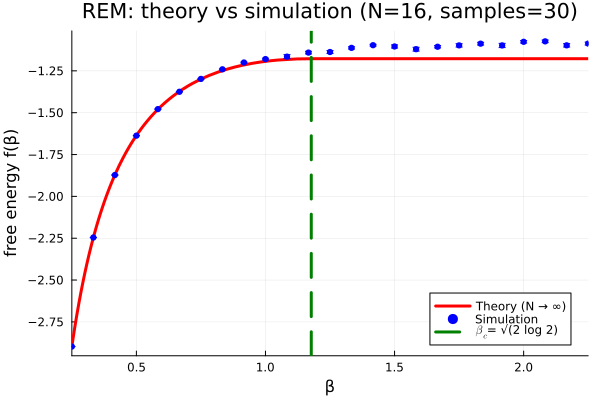
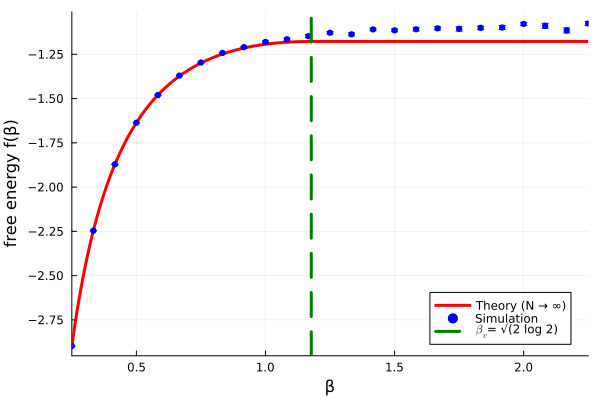
style header

diff --git a/_layout/header.html b/_layout/header.html
@@ -1,9 +1,9 @@
 <header>
-<div class="blog-name"><a>Enrico&nbsp;M.&nbsp;Malatesta</a></div>
+<div class="blog-name"><a href="/" style="text-decoration: none; color: inherit;">Enrico&nbsp;M.&nbsp;Malatesta</a></div>
 <!--<a href="https://cs.unibocconi.eu/"><img style="max-height:65px; margin-top: 0px;" src="/assets/images/header/B.png"></a>-->
 <nav>
   <ul>
-    <li><a href="/">Home</a></li>
+    <li><a href="/" >Home</a></li>
     <li><a href="/pages/publications/">Publications</a></li>
     <li><a href="/pages/notes/">Notes</a></li>
     <li><a href="/pages/teaching/">Teaching</a></li>

diff --git a/blog/2025/REM1.md b/blog/2025/REM1.md
@@ -147,7 +147,7 @@ If $\beta$ is too large (i.e. the temperature too low), the corresponding maximi
 
 
 @@center ![Microcanonical entropy of REM](/blog/2025/rem_entropy.png) @@
-
+@@center *Figure 1: Microcanonical entropy of the REM* @@
 
 
 
@@ -217,7 +217,6 @@ function plot_rem_free_energy(; N=18, βmin = 0.25, βmax = 2.25, nβ=25,
         label="Theory (N → ∞)",
         linewidth=3, color=:red,
         xlabel="β", ylabel="free energy f(β)",
-        title="REM: theory vs simulation (N=$N, samples=$nsamples)"
     )
 
     scatter!(βs, f_sim;
@@ -238,6 +237,7 @@ plot_rem_free_energy(N=16, nsamples=30, outfile="./_assets/images/blog/rem_free_
 \output{./rem}
 
 @@center ![Free energy of the REM](/assets/images/blog/rem_free_energy.png) @@
+@@center *Figure 2: Theory vs Simulation of the REM (N=18, number of samples=30)* @@
 
 
 ## some more stuff

diff --git a/index.md b/index.md
@@ -6,7 +6,7 @@
 
 @@row
 @@container
-@@left ![Enrico M. Malatesta](/assets/images/img.jpeg) $\qquad$ @@
+@@left ![Enrico M. Malatesta](/assets/images/img.jpeg) $\;\;\qquad$ @@
 @@
 
 
